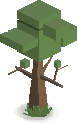
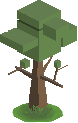
improved perf. --> changed tiles and used .convert instead of .convert_alpha

Changed region(s): [[0.1538, 0.8293, 0.8205, 1.0]]

diff --git a/map.py b/map.py
@@ -30,5 +30,5 @@ class Map:
                 tile.tile_type = tile.get_tile_type().convert()
                 tile.tile_type.set_colorkey((0, 0, 0))
             elif tile:
-                tile.tile_type = tile.get_tile_type().convert_alpha()
-                #tile.tile_type.set_colorkey((0, 0, 0))
+                tile.tile_type = tile.get_tile_type().convert()
+                tile.tile_type.set_colorkey((0, 0, 0))
